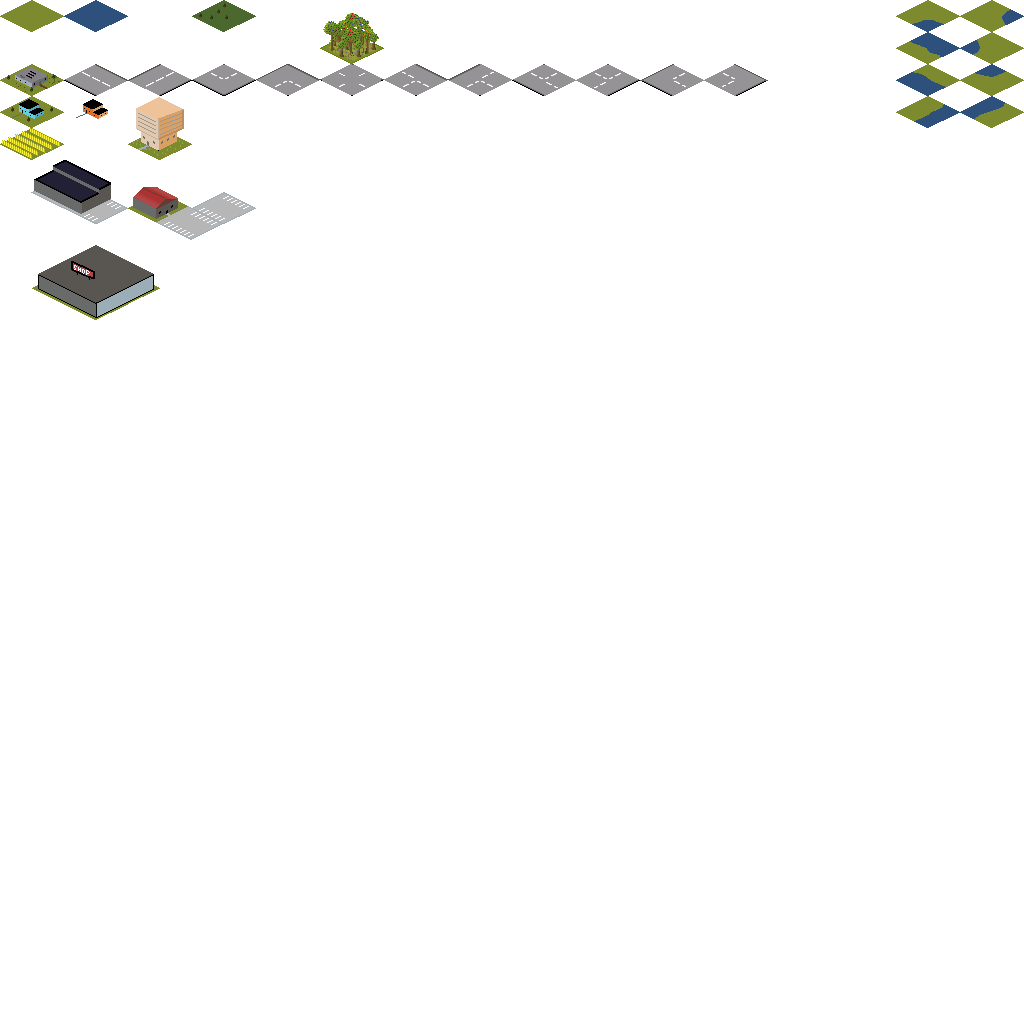
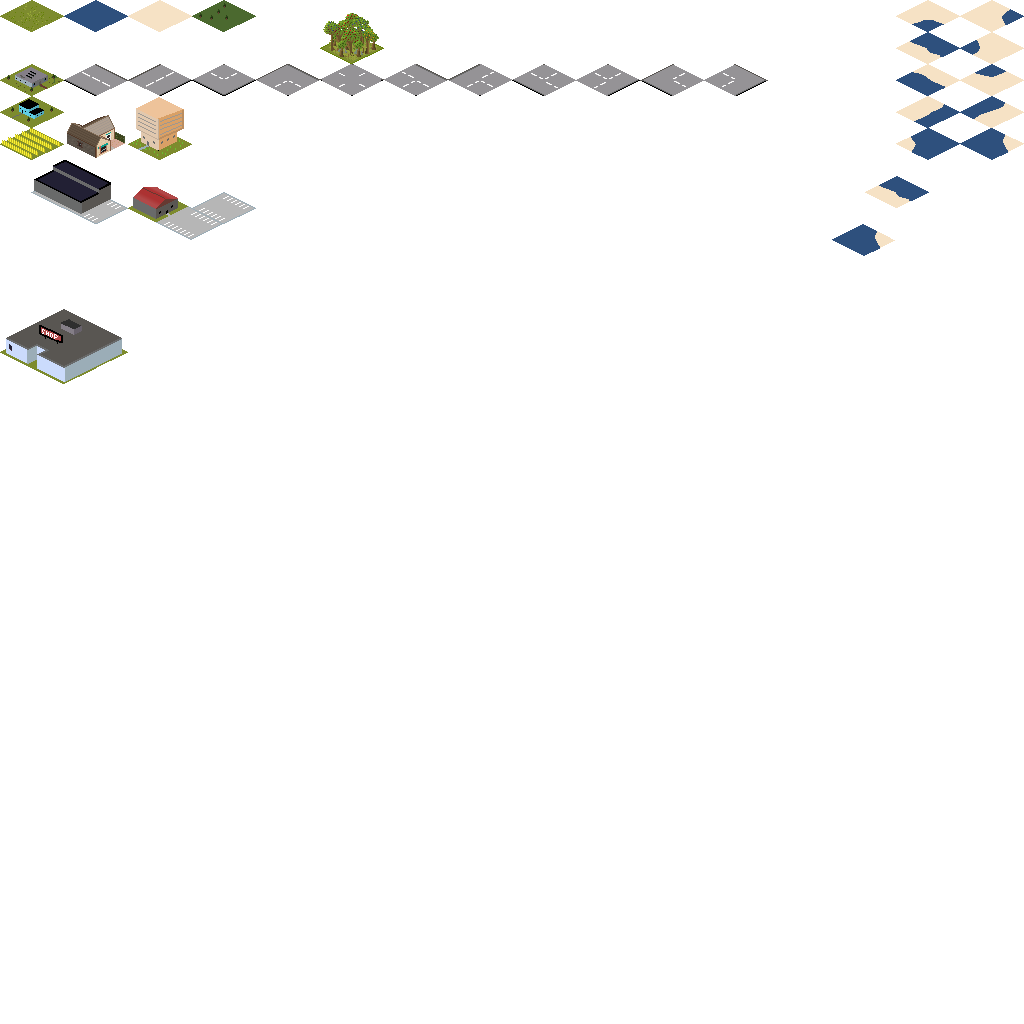
added sand

diff --git a/test/transport_test.cpp b/test/transport_test.cpp
@@ -42,9 +42,11 @@ std::shared_ptr<world::Building> addStreet(int x, int y)
     return s1;
 }
 
-TEST(TransportTest, FindProductionBuildings)
+TEST(TransportTest, FindStorageBuildings)
 {
+    std::shared_ptr<world::Company> company = std::make_shared<world::Company>("test", 0, true);
     GameMap map(10, 10);
+    world::Building::initComponentMap();
 
     map.addBuilding(addStreet(1, 1));
     map.addBuilding(addStreet(1, 2));
@@ -53,19 +55,28 @@ TEST(TransportTest, FindProductionBuildings)
     //add start building
     auto office = std::make_shared<world::Building>("Transport Office", "Transport Office", "A factory", 50000, world::BuildingType::Transport, 2, 2);
     office->setPosition(1, 5);
+    auto component1 = world::Building::createComponentByName("StorageComponent");
+    office->addComponent(component1);
     map.addBuilding(office);
     auto farm = std::make_shared<world::Building>("Farm", "Farm", "A farm", 10000, world::BuildingType::Farm);
     farm->setPosition(2, 1);
     farm->addProduct(std::make_shared<Product>("test", "dummy.png", world::BuildingType::Farm, ProductionCycle(0, 12, 5, 5)));
     map.addBuilding(farm);
-
+    auto component2 = world::Building::createComponentByName("StorageComponent");
+    farm->addComponent(component2);
     auto factory = std::make_shared<world::Building>("Factory", "Factory", "A Factory", 10000, world::BuildingType::Factory);
     factory->setPosition(2, 2);
     factory->addProduct(std::make_shared<Product>("test", "dummy.png", world::BuildingType::Farm, ProductionCycle(0, 12, 5, 5)));
+    auto component3 = world::Building::createComponentByName("StorageComponent");
+    factory->addComponent(component3);
     map.addBuilding(factory);
+    company->addBuilding(factory);
+    company->addBuilding(farm);
+    company->addBuilding(office);
+
     //TransportOffice office;
 
-    auto result = map.findProductionBuildings(office);
+    auto result = map.findStorageBuildings(office, company);
     int test = 1;
 
     //EXPECT_EQ(map.getBuildings().size(), 7);
@@ -74,6 +85,8 @@ TEST(TransportTest, FindProductionBuildings)
 
 TEST(TransportTest, GenerateRoute)
 {
+    std::shared_ptr<world::Company> company = std::make_shared<world::Company>("test", 0, true);
+
     GameMap map(10, 10);
 
     map.addBuilding(addStreet(1, 1));
@@ -92,6 +105,10 @@ TEST(TransportTest, GenerateRoute)
     factory->setPosition(2, 2);
     map.addBuilding(factory);
     //TransportOffice office;
+    company->addBuilding(factory);
+    company->addBuilding(farm);
+    company->addBuilding(office);
+    //TransportOffice office;
 
-    auto result = map.findProductionBuildings(office);
+    auto result = map.findStorageBuildings(office, company);
 }

diff --git a/src/world/gamemaprenderer.cpp b/src/world/gamemaprenderer.cpp
@@ -85,9 +85,13 @@ graphics::Rect GameMapRenderer::getSourceRect(TileType tile, size_t tileX, size_
     {
         srcRect = textureMap->getSourceRect("trees");
     }
-    else
+    else if (tile > groundLimit)
     {
         srcRect = textureMap->getSourceRect("grass");
+    }
+    else
+    {
+        srcRect = textureMap->getSourceRect("sand");
     }
 
     return srcRect;
